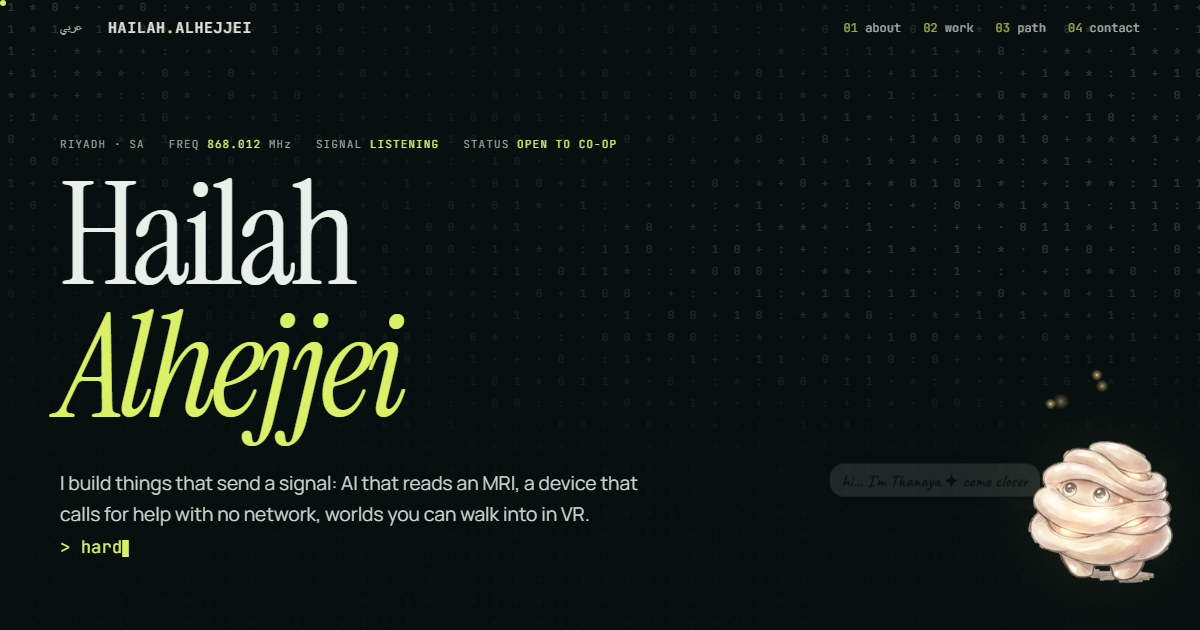
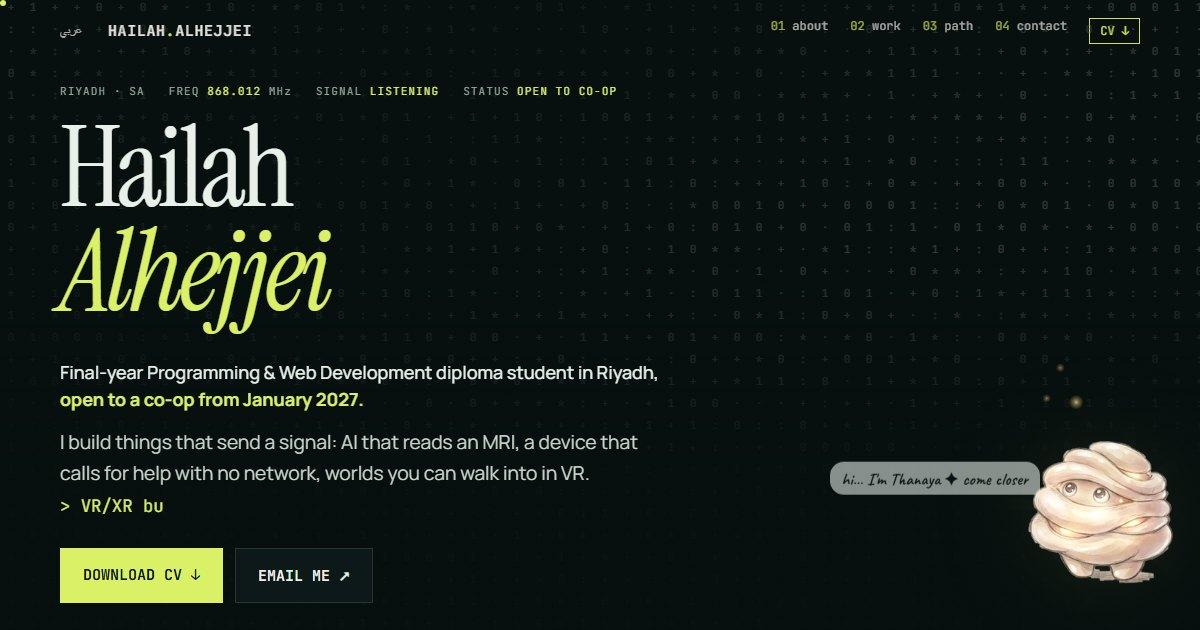
Put co-op facts, CV and email on the first screen
- Line under the name: final-year Programming & Web Development diploma student in Riyadh, open to a co-op from January 2027
- Download CV and Email me buttons in the hero; CV link in the header (visible on phones)
- Download CV is the main button in Contact
- Hero fits short laptop screens; Arabic name on one line there
- Arabic label for LinkedIn
- Refresh the share preview image

diff --git a/index.html b/index.html
@@ -181,20 +181,32 @@ canvas.confetti{position:fixed;inset:0;pointer-events:none;z-index:94}
 @media(max-width:600px){.log{left:8px;right:8px;top:40px;bottom:auto;min-width:0;font-size:10px;padding:8px}.act{right:8px;bottom:8px;padding:8px 11px;font-size:11px}.pc{width:100px;height:118px}.term{bottom:96px}}
 @media(max-width:480px){.skills{grid-template-columns:1fr}}
 @media(prefers-reduced-motion:reduce){*{animation:none!important;transition:none!important}.rv{opacity:1;transform:none}.doodle path{stroke-dashoffset:0}}
+.avail{position:relative;max-width:640px;margin:0 0 14px;font-size:clamp(17px,1.5vw,19px);line-height:1.5;font-weight:500;color:var(--ink)}
+.avail b{color:var(--lime);font-weight:700}
+.hero-cta{display:flex;flex-wrap:wrap;gap:12px;margin-top:26px;pointer-events:auto}
+.btn.pri{background:var(--lime);color:#081615;border-color:var(--lime)}.btn.pri:hover{color:#081615;filter:brightness(1.08)}
+nav a.navcv{opacity:1;color:var(--lime);border:1px solid currentColor;padding:4px 10px}
+@media(max-width:860px){nav a.navcv{display:inline-block;font-size:13px;padding:7px 12px}}
+@media(max-width:600px){.hero{padding-bottom:calc(190px + env(safe-area-inset-bottom))!important}html[lang=ar] .hero h1{margin-bottom:24px!important}}
+html[lang=ar] .btn{line-height:1.25}html[lang=ar] nav a.navcv{line-height:1.25;padding:4px 10px}
+.hero{padding-top:84px}.hero h1{font-size:clamp(60px,min(12vw,18vh),190px)}
+@media(min-width:861px) and (max-height:760px){html[lang=ar] .hero h1 br{display:none}html[lang=ar] .hero h1 i{margin-inline-start:.28em}html[lang=ar] .hero h1{margin-bottom:40px!important}}
 </style>
 </head>
 <body>
 <a class="skip" href="#main">Skip to content</a>
 <div class="cur"></div><div class="cur2"></div>
 <div class="guide hide" id="guide" aria-hidden="true"><svg viewBox="0 0 40 40"><path d="M6 20 C14 18 22 18 32 20 M24 12 L33 20 L24 28" fill="none" stroke="#d9f067" stroke-width="3" stroke-linecap="round" stroke-linejoin="round"/></svg><span>say hi!</span></div>
-<header><a class="brand" href="#top">HAILAH<b>.</b>ALHEJJEI</a><nav><a href="#about"><span>01</span> about</a><a href="#work"><span>02</span> work</a><a href="#path"><span>03</span> path</a><a href="#contact"><span>04</span> contact</a></nav><button id="i18nBtn" class="langbtn" aria-label="Switch language">عربي</button></header>
+<header><a class="brand" href="#top">HAILAH<b>.</b>ALHEJJEI</a><nav><a href="#about"><span>01</span> about</a><a href="#work"><span>02</span> work</a><a href="#path"><span>03</span> path</a><a href="#contact"><span>04</span> contact</a><a class="navcv" href="Hailah_Alhejjei_CV_2026.pdf" download>CV ↓</a></nav><button id="i18nBtn" class="langbtn" aria-label="Switch language">عربي</button></header>
 <main id="main">
 <section class="hero" id="top">
   <canvas id="field" aria-hidden="true"></canvas>
   <div class="hero-in">
     <div class="hud"><span>RIYADH · SA</span><span>FREQ <b id="freq">868.000</b> MHz</span><span>SIGNAL <b id="sig">LISTENING</b></span><span>STATUS <b>OPEN TO CO-OP</b></span></div>
     <h1>Hailah<br><i>Alhejjei</i></h1>
+    <p class="avail">Final-year Programming &amp; Web Development diploma student in Riyadh, <b>open to a co-op from January 2027.</b></p>
     <p class="lede">I build things that send a signal: AI that reads an MRI, a device that calls for help with no network, worlds you can walk into in VR.<br><span class="typed" id="typed"></span></p>
+    <div class="hero-cta"><a class="btn pri" href="Hailah_Alhejjei_CV_2026.pdf" download>DOWNLOAD CV ↓</a><a class="btn" href="mailto:alhejjeihailah@gmail.com">EMAIL ME ↗</a></div>
   </div>
   
 </section>
@@ -311,12 +323,12 @@ canvas.confetti{position:fixed;inset:0;pointer-events:none;z-index:94}
     <span class="note" style="right:-150px;top:48px">← that's me!</span>
   </a> <span class="copied" id="copied">copied ✓</span></div>
   <div class="row">
-    <a class="btn li" id="liBtn" href="https://www.linkedin.com/in/hailah-alhejjei" target="_blank" rel="noreferrer">in&nbsp; LINKEDIN ↗
+    <a class="btn pri" href="Hailah_Alhejjei_CV_2026.pdf" download>DOWNLOAD CV ↓</a>
+    <a class="btn" id="liBtn" href="https://www.linkedin.com/in/hailah-alhejjei" target="_blank" rel="noreferrer">in&nbsp; LINKEDIN ↗
       <svg class="doodle" style="left:-14px;top:-16px;width:calc(100% + 28px);height:calc(100% + 32px)" viewBox="0 0 200 80" preserveAspectRatio="none"><path style="--l:600" d="M18 40 C14 10 120 4 182 14 C200 30 196 66 120 72 C60 76 10 70 14 44"/></svg>
       <svg class="doodle" style="right:-46px;top:-30px;width:46px;height:46px" viewBox="0 0 46 46"><path style="--l:30" d="M23 4 V14"/><path style="--l:30" d="M42 23 H32"/><path style="--l:30" d="M37 9 L30 16"/><path style="--l:30" d="M4 23 H12"/></svg>
       <span class="note lc" style="left:20px;top:64px">let's connect ✦</span></a>
     <a class="btn" href="https://github.com/HailahAlhejjei" target="_blank" rel="noreferrer">GITHUB ↗</a>
-    <a class="btn" href="Hailah_Alhejjei_CV_2026.pdf" download>DOWNLOAD CV ↓</a>
     <button class="btn" id="copyBtn" style="cursor:pointer;color:inherit">⧉ COPY EMAIL</button>
   </div>
 </section>
@@ -586,7 +598,7 @@ const AR={
 "NOV 2026 · FINALIST":"نوفمبر 2026 · متأهلة للنهائي","🏁 Accepted to the SAIF 2026 Finals - Awn (عون)":"🏁 مقبول في نهائيات سيف 2026 - عون","Final acceptance for our team · competing in the finals hackathon (late Nov 2026)":"قبول نهائي لفريقنا · ننافس في هاكاثون النهائيات (أواخر نوفمبر 2026)",
 "OCT 2026 · HACKATHON":"أكتوبر 2026 · هاكاثون","Healthcare AI prototype · KSU Medical City":"نموذج ذكاء اصطناعي صحي · المدينة الطبية بجامعة الملك سعود","JUL-SEP 2026 · TRAINING":"يوليو-سبتمبر 2026 · تدريب","VR Development & Emerging Technologies Bootcamp":"معسكر تطوير الواقع الافتراضي والتقنيات الناشئة","Tuwaiq Academy · 160 hours":"أكاديمية طويق · 160 ساعة",
 "2026 · AWARD":"2026 · جائزة","🥉 3rd Place - Satathon 2026":"🥉 المركز الثالث - ساتاثون 2026","Digital Apollo · satellite & HF radio communications":"أبولو الرقمي · اتصالات الأقمار والراديو","EDUCATION":"التعليم","Programming & Web Development":"البرمجة وتطوير الويب","Technical and Vocational Training Corporation · Riyadh":"المؤسسة العامة للتدريب التقني والمهني · الرياض",
-"/ LET’S CONNECT":"/ لنتواصل","Have a role or project":"عندك فرصة أو فكرة","in mind?":"تدور مين يسويها؟","Let’s talk.":"أنا لها.","← that's me!":"المشروع الجاي؟ يبدأ من هنا","copied ✓":"تم النسخ ✓","in  LINKEDIN ↗":"in  لينكدإن ↗","let's connect ✦":"خلنا نتواصل ✦","GITHUB ↗":"جيت هب ↗","DOWNLOAD CV ↓":"حمّل السيرة الذاتية ↓","⧉ COPY EMAIL":"⧉ انسخ الإيميل",
+"/ LET’S CONNECT":"/ لنتواصل","Have a role or project":"عندك فرصة أو فكرة","in mind?":"تدور مين يسويها؟","Let’s talk.":"أنا لها.","← that's me!":"المشروع الجاي؟ يبدأ من هنا","copied ✓":"تم النسخ ✓","in  LINKEDIN ↗":"in  لينكدإن ↗","let's connect ✦":"خلنا نتواصل ✦","GITHUB ↗":"جيت هب ↗","DOWNLOAD CV ↓":"حمّل السيرة الذاتية ↓","Final-year Programming & Web Development diploma student in Riyadh,":"طالبة في السنة الأخيرة من دبلوم البرمجة وتطوير الويب في الرياض،","open to a co-op from January 2027.":"متاحة للتدريب التعاوني من يناير 2027.","EMAIL ME ↗":"راسلني ↗","CV ↓":"السيرة ↓","in\u00a0 LINKEDIN ↗":"in  لينكدإن ↗","⧉ COPY EMAIL":"⧉ انسخ الإيميل",
 "Hailah Alhejjei":"هيلة الحجي","built by hand · no framework":"مبني يدوياً · بدون أطر جاهزة","BACK TO TOP ↑":"للأعلى ↑",
 "hi… I'm Thanaya ✦ come closer":"هلا… أنا ثنايا ✦ قرّب","✦ ask Thanaya":"✦ اسأل ثنايا","🤫 psst… what's it REALLY like working with Hailah?":"🤫 بِسّت… وش يعني تشتغل مع هيلة؟","Awn 🛰":"عون 🛰","her projects":"مشاريعها","reach her ✉":"تواصل معها ✉",
 "Awards":"الجوائز","Talk to Thanaya":"كلّم ثنايا","Terminal":"الطرفية","Toggle voice":"تشغيل/كتم الصوت","Close":"إغلاق","Terminal input":"اكتب سؤالك",
